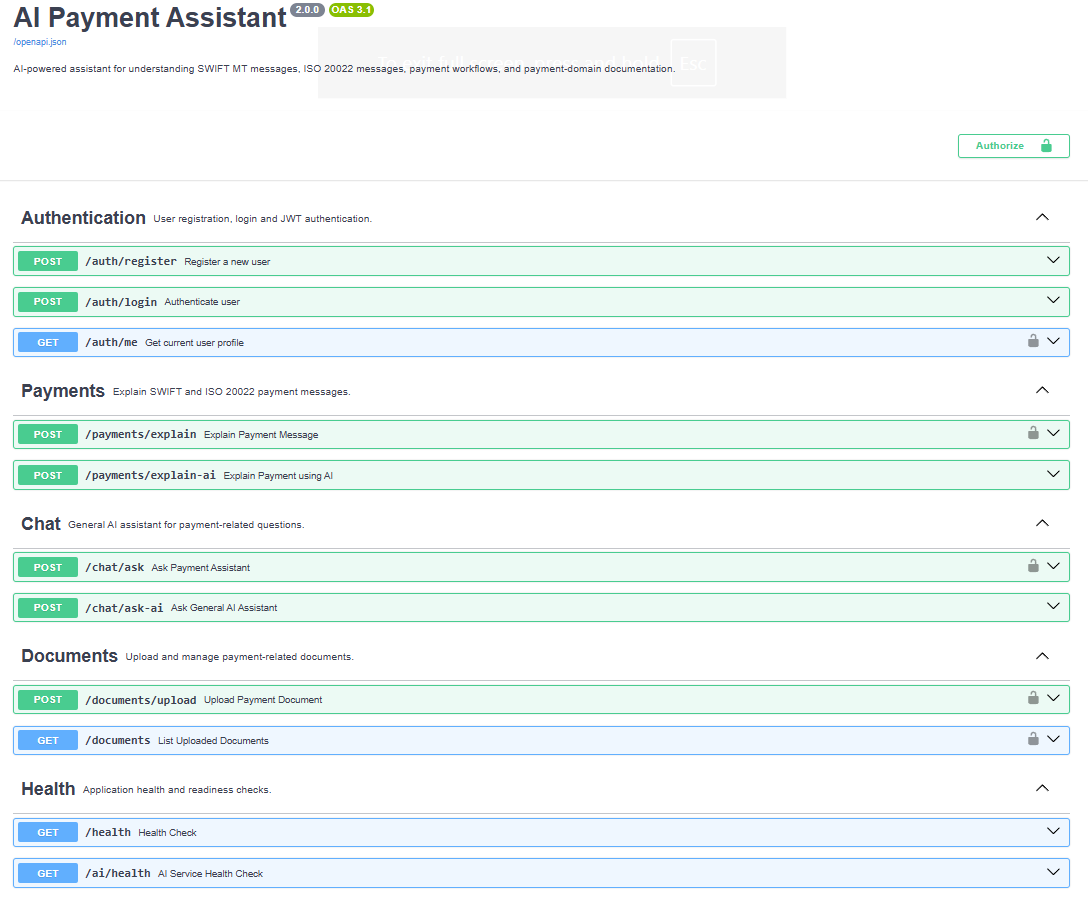
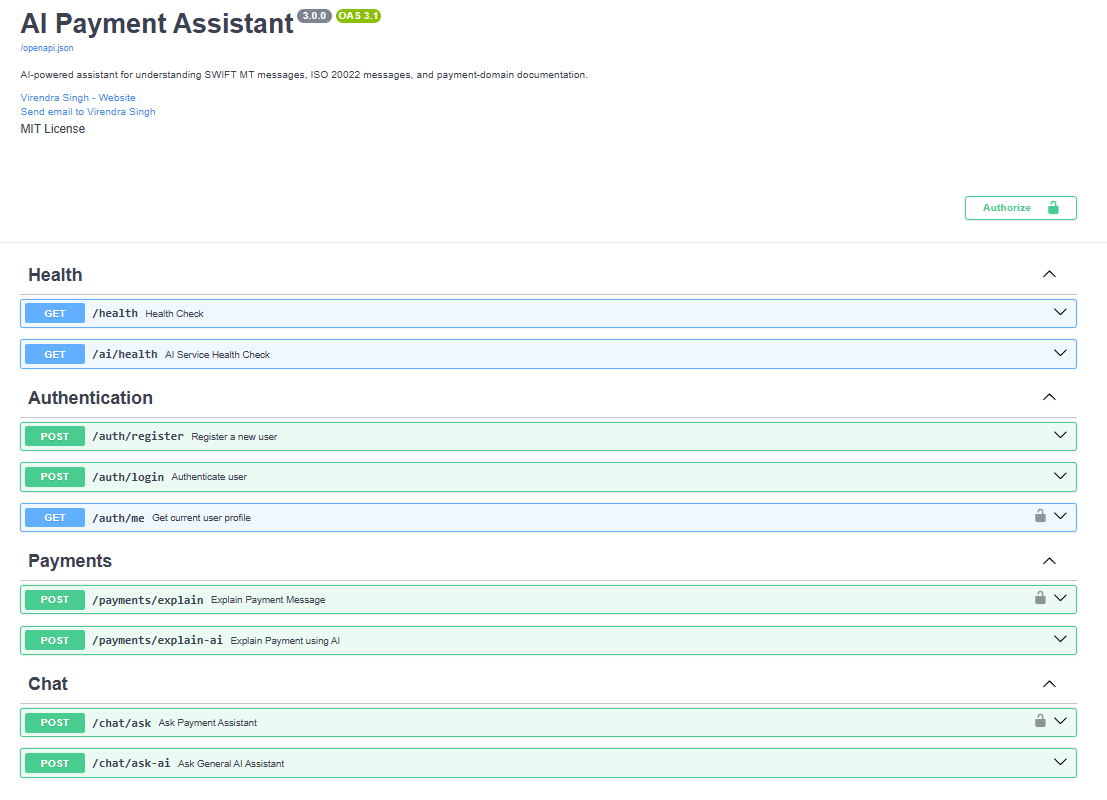
#65 fix test and upgrade readme

Changed region(s): [[0.0, 0.2188, 1.0, 1.0], [0.0, 0.0, 0.625, 0.1875], [0.875, 0.1562, 0.9688, 0.1875]]

diff --git a/tests/test_health.py b/tests/test_health.py
@@ -3,6 +3,8 @@
 from fastapi.testclient import TestClient
 from app.main import app
 
+from unittest.mock import patch
+
 client = TestClient(app)
 
 
@@ -16,12 +18,15 @@ def test_health():
     }
 
 
-def test_ai_health():
+
+
+
+@patch(
+    "app.services.gemini_service.GeminiService.health_check",
+    return_value=True,
+)
+def test_ai_health(mock_health_check):
     response = client.get("/ai/health")
 
     assert response.status_code == 200
-    assert response.json() == {
-        "status": "healthy",
-        "provider": "local",
-        "available": True
-    }
+    mock_health_check.assert_called_once()

diff --git a/tests/conftest.py b/tests/conftest.py
@@ -1,6 +1,17 @@
 import os
 
-os.environ["AI_PROVIDER"] = "local"
+# Test-only configuration
+os.environ.setdefault(
+    "GEMINI_API_KEY",
+    "test-gemini-api-key"
+)
+
+import pytest
+from fastapi.testclient import TestClient
+
+from app.main import app
+
+# rest of your fixtures...
 
 import pytest
 

diff --git a/README.md b/README.md
@@ -10,27 +10,41 @@
 <p align="center">
   <img src="https://img.shields.io/badge/version-3.0.0-blue" alt="Version">
   <img src="https://img.shields.io/badge/Python-3.11%2B-blue" alt="Python">
-  <img src="https://img.shields.io/badge/FastAPI-Backend-green" alt="FastAPI">
+  <img src="https://img.shields.io/badge/FastAPI-Backend-009688" alt="FastAPI">
   <img src="https://img.shields.io/badge/AI-Google%20Gemini-orange" alt="Gemini">
+  <img src="https://img.shields.io/badge/RAG-Enabled-success" alt="RAG">
+  <img src="https://img.shields.io/badge/Vector%20DB-ChromaDB-green" alt="ChromaDB">
+  <img src="https://img.shields.io/badge/Database-SQLite-07405E" alt="SQLite">
+  <img src="https://img.shields.io/badge/Migrations-Alembic-red" alt="Alembic">
+  <img src="https://img.shields.io/badge/Tests-Pytest-yellow" alt="Pytest">
   <img src="https://img.shields.io/badge/License-MIT-lightgrey" alt="License">
 </p>
 
 ---
-
 ## Overview
 
-AI Payment Assistant is a FastAPI-based backend application designed to make complex international-payment concepts easier to understand.
+AI Payment Assistant is a FastAPI-based backend application designed to make complex international-payment concepts and payment documentation easier to understand using Generative AI and Retrieval-Augmented Generation (RAG).
 
 The application can:
 
 - Explain SWIFT MT and ISO 20022 payment messages
-- Answer payment-domain questions using AI
-- Register and authenticate users with JWT
-- Upload and manage payment-related documents
+- Answer payment-domain questions using Google Gemini
+- Register and authenticate users securely with JWT
+- Upload and manage payment-related PDF, TXT, and DOCX documents
+- Extract text from uploaded documents
+- Split document content into searchable chunks
+- Generate vector embeddings using Google Gemini
+- Store and index document vectors in ChromaDB
+- Perform semantic search to retrieve relevant document content
+- Answer document-specific questions using a complete RAG pipeline
+- Provide source chunks for traceability of AI-generated answers
+- Secure document access using user-level ownership
+- Delete documents along with physical files, metadata, chunks, and vectors
+- Manage database schema changes using Alembic migrations
 - Provide application and AI-service health checks
-- Run automated tests through GitHub Actions
+- Run automated tests through Pytest and GitHub Actions
 
-This project combines backend engineering, Generative AI, and international-payments domain knowledge.
+This project combines **backend engineering, Generative AI, Retrieval-Augmented Generation, vector search, and international-payments domain knowledge** to demonstrate how AI can be integrated into a real-world payment-domain application.
 
 ---
 
@@ -39,92 +53,160 @@ This project combines backend engineering, Generative AI, and international-paym
 ### Authentication
 
 - User registration
-- User login
+- Secure user login
 - JWT access-token generation
 - Protected user-profile endpoint
+- Authentication for protected APIs
+- User-level document ownership and access control
 
 ### Payment Explanation
 
-- Explain payment messages using structured logic
-- Generate AI-powered payment explanations
-- Support SWIFT MT and ISO 20022 concepts
+- Explain payment messages using structured domain logic
+- Generate AI-powered payment explanations using Google Gemini
+- Support SWIFT MT and ISO 20022 payment-message concepts
+- Provide simplified explanations of complex payment fields and workflows
+- Maintain separate local and AI-powered explanation endpoints
 
 ### AI Chat
 
-- Ask payment-domain questions
-- Ask general AI questions
-- Integrate with Google Gemini
+- Ask payment-domain and general AI questions
+- Generate conversational responses using Google Gemini
+- Support payment concepts, terminology, and workflow-related queries
+- Provide a standalone AI chat experience independent of uploaded documents
 
 ### Document Management
 
-- Upload payment-domain documents with authenticated metadata tracking
-- Store uploaded files on disk
-- Persist document metadata in SQLite
-- Keep legacy local upload endpoints available
+- Upload payment-domain PDF, TXT, and DOCX documents securely
+- Associate uploaded documents with the authenticated user
+- Store original uploaded files on disk
+- Persist document metadata and processing status in SQLite
+- List documents belonging to the authenticated user
+- Track original filename, content type, file size, and upload timestamp
+- Enforce user-level document ownership and access control
+- Delete documents together with physical files, metadata, chunks, and ChromaDB vectors
+
+### Document Processing & RAG
+
+- Extract text from uploaded documents
+- Split extracted content into configurable overlapping chunks
+- Generate numerical embeddings using Google Gemini
+- Store and index document vectors in ChromaDB
+- Perform semantic search across document chunks
+- Retrieve Top-K relevant chunks using vector similarity
+- Generate document-grounded answers using Retrieval-Augmented Generation (RAG)
+- Return source chunks for answer traceability
 
 ### Engineering and Operations
 
-- Environment-based configuration
-- Structured application logging
-- SQLAlchemy database integration
-- Pytest unit and API testing
+- Environment-based configuration and secret management
+- Structured application and request logging
+- SQLAlchemy ORM with SQLite persistence
+- Alembic-based database schema migrations
+- Persistent ChromaDB vector storage
+- Modular service architecture for AI, embeddings, RAG, and vector operations
+- Pytest unit and API integration testing
+- Mocked Gemini and ChromaDB dependencies for deterministic tests
 - GitHub Actions continuous integration
-- Health and AI-service health endpoints
+- Swagger/OpenAPI documentation
+- Application and AI-service health endpoints
 
 ---
 
 ## Technology Stack
 
 | Area | Technology |
-|---|---|
+| --- | --- |
 | Programming language | Python |
 | API framework | FastAPI |
-| AI provider | Google Gemini |
+| AI / LLM provider | Google Gemini |
+| Embedding provider | Google Gemini Embeddings |
+| RAG architecture | Retrieval-Augmented Generation (RAG) |
+| Vector database | ChromaDB |
 | Database ORM | SQLAlchemy |
-| Database | SQLite |
+| Application database | SQLite |
+| Database migrations | Alembic |
 | Authentication | JWT |
-| Validation | Pydantic |
-| Testing | Pytest |
+| Data validation | Pydantic |
+| Document processing | PDF / TXT / DOCX processing |
+| Semantic search | Vector similarity search |
+| Testing | Pytest / FastAPI TestClient |
 | CI/CD | GitHub Actions |
 | API documentation | Swagger UI / OpenAPI |
+| Logging | Python structured logging |
 
 ---
 
 ## Architecture
 
-```mermaid
 flowchart LR
     U[User / API Client] --> F[FastAPI Application]
 
     F --> A[Authentication Module]
     F --> P[Payment Explanation Module]
     F --> C[AI Chat Module]
-    F --> D[Document Module]
+    F --> D[Document / RAG Module]
     F --> H[Health Module]
 
     A --> DB[(SQLite Database)]
-    D --> FS[(Local Document Storage)]
-    D --> DB
-
     P --> G[Google Gemini API]
     C --> G
+
+    D --> UP[Document Upload]
+    UP --> FS[(Local File Storage)]
+    UP --> DB
+
+    D --> EX[Text Extraction]
+    EX --> DB
+
+    D --> CH[Text Chunking]
+    CH --> DB
+
+    D --> EM[Embedding Generation]
+    EM --> GE[Gemini Embedding API]
+    EM --> DB
+
+    D --> VS[Vector Indexing]
+    VS --> VDB[(ChromaDB)]
+
+    D --> SS[Semantic Search]
+    SS --> GE
+    SS --> VDB
+
+    D --> RAG[RAG Question Answering]
+    RAG --> SS
+    RAG --> G
 
     F --> L[Structured Logging]
     F --> T[Pytest Test Suite]
     T --> CI[GitHub Actions]
-```
 
+```
 ### Request Flow
 
-1. A user registers or logs in.
-2. The application generates a JWT access token.
-3. The user authorizes protected API requests.
-4. FastAPI validates the request using Pydantic models.
+1. A user registers or logs in and receives a JWT access token.
+2. The user authorizes protected API requests using the token.
+3. FastAPI validates incoming requests using Pydantic models.
+4. The application verifies authentication and document ownership where required.
 5. The appropriate service processes the request.
-6. AI-enabled endpoints call Google Gemini when configured.
-7. The API returns a structured JSON response.
-8. Important events and errors are recorded through application logging.
-
+6. For document ingestion:
+   - The document is uploaded and stored locally.
+   - Document metadata is persisted in SQLite.
+   - Text is extracted from the document.
+   - Extracted text is split into overlapping chunks.
+   - Google Gemini generates numerical embeddings for each chunk.
+   - Embeddings, chunk content, and metadata are indexed in ChromaDB.
+7. For semantic search:
+   - The user's question is converted into an embedding.
+   - ChromaDB performs vector similarity search.
+   - The Top-K most relevant document chunks are retrieved.
+8. For RAG question answering:
+   - The retrieved chunks are assembled as document context.
+   - The question and context are sent to Google Gemini.
+   - Gemini generates an answer grounded in the retrieved document content.
+   - Relevant source chunks are returned with the answer for traceability.
+9. Payment-explanation and general AI-chat endpoints call Google Gemini independently of the document RAG pipeline.
+10. The API returns a structured JSON response.
+11. Important requests, processing events, errors, and execution times are recorded through structured application logging.
 ---
 
 ## API Documentation
@@ -149,6 +231,13 @@ http://127.0.0.1:8000/redoc
 
 ![Swagger API Overview](docs/images/swagger-api.png)
 
+### Document Processing APIs
+
+![Document Processing APIs](docs/images/swagger-document-processing.png)
+
+### Semantic Search & RAG APIs
+
+![Semantic Search and RAG APIs](docs/images/swagger-rag.png)
 ### User Login
 
 ![User Login](docs/images/login-api.png)
